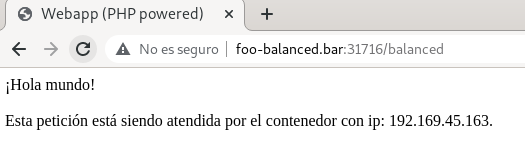
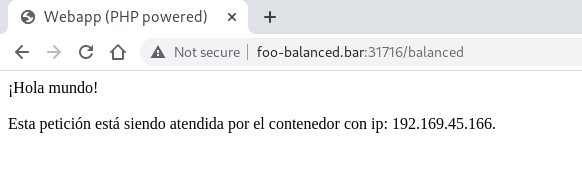
kubernetes

diff --git a/labs-k8s/10-desplegando-aplicación-balanceada.md b/labs-k8s/10-desplegando-aplicación-balanceada.md
@@ -193,14 +193,16 @@ data:
   ssl-redirect: "OFF"
 ```
 
+> ![INFORMATION](information-icon.png) [Kubernetes Service](https://kubernetes.io/docs/concepts/services-networking/service/)
+
 ## Probando la aplicación balanceada
 
 Listamos los pods:
 
 ```console
 [kubeadmin@kubemaster webapp-balanced]$ kubectl get pods --namespace webapp-balanced -o wide
-NAME                               READY   STATUS    RESTARTS   AGE   IP               NODE                  NOMINATED NODE   READINESS GATES
-webapp-balanced-6f4f8dcd99-9pdqs   1/1     Running   0          30s   192.169.45.163   kubenode2.jadbp.lab   <none>           <none>
+NAME                               READY   STATUS    RESTARTS   AGE    IP               NODE                  NOMINATED NODE   READINESS GATES
+webapp-balanced-6f4f8dcd99-p2vd7   1/1     Running   0          117s   192.169.45.166   kubenode2.jadbp.lab   <none>           <none>
 [kubeadmin@kubemaster webapp-balanced]$
 ```
 
@@ -223,12 +225,12 @@ Si recargamos la página podremos ver que la ip no cambia. Tenemos un único pod
 Escalamos el deployment para tener dos pods:
 
 ```console
-[kubeadmin@kubemaster labs-k8s]$ kubectl scale --replicas=2 deployment/webapp-balanced --namespace=webapp-balanced
+[kubeadmin@kubemaster webapp-balanced]$ kubectl scale --replicas=2 deployment/webapp-balanced --namespace=webapp-balanced
 deployment.apps/webapp-balanced scaled
 [kubeadmin@kubemaster webapp-balanced]$ kubectl get pods --namespace webapp-balanced -o wide
 NAME                               READY   STATUS    RESTARTS   AGE     IP               NODE                  NOMINATED NODE   READINESS GATES
-webapp-balanced-6f4f8dcd99-9pdqs   1/1     Running   0          2m31s   192.169.45.163   kubenode2.jadbp.lab   <none>           <none>
-webapp-balanced-6f4f8dcd99-zfspg   1/1     Running   0          25s     192.169.62.38    kubenode1.jadbp.lab   <none>           <none>
+webapp-balanced-6f4f8dcd99-b4qpj   1/1     Running   0          20s     192.169.62.43    kubenode1.jadbp.lab   <none>           <none>
+webapp-balanced-6f4f8dcd99-p2vd7   1/1     Running   0          8m16s   192.169.45.166   kubenode2.jadbp.lab   <none>           <none>
 [kubeadmin@kubemaster webapp-balanced]$
 ```
 
@@ -240,7 +242,7 @@ Podemos ir recargando y veremos que cada vez que recargamos se muestra una ip di
 
 ## Escalando la aplicación
 
-Escalamos la apliación para tener tres pods:
+Escalamos la aplicación para tener tres pods:
 
 ```console
 [kubeadmin@kubemaster devopslabs]$ kubectl scale --replicas=3 deployment/webapp-balanced --namespace=webapp-balanced
@@ -264,7 +266,7 @@ kubenode2.jadbp.lab    Ready    <none>                 9d    v1.21.1
 [kubeadmin@kubemaster devopslabs]$ 
 ```
 
-Podemos ver los eventos del namespace en el que venos que no se cumplen las reglas de antiafinidad del deployment:
+Podemos ver los eventos del namespace en el que vemos que no se cumplen las reglas de antiafinidad del deployment:
 
 ```console
 [kubeadmin@kubemaster devopslabs]$ kubectl get events --namespace webapp-balanced
@@ -288,24 +290,28 @@ LAST SEEN   TYPE      REASON              OBJECT                                
 [kubeadmin@kubemaster devopslabs]$ 
 ```
 
-```console
-[kubeadmin@kubemaster webapp-balanced]$  kubectl scale --replicas=2 deployment/webapp-balanced --namespace=webapp-balanced
-deployment.apps/webapp-balanced scaled
-[kubeadmin@kubemaster webapp-balanced]$ kubectl get pods --namespace webapp-balanced -o wide
-NAME                               READY   STATUS    RESTARTS   AGE     IP               NODE                  NOMINATED NODE   READINESS GATES
-webapp-balanced-6f4f8dcd99-9pdqs   1/1     Running   0          6m54s   192.169.45.163   kubenode2.jadbp.lab   <none>           <none>
-webapp-balanced-6f4f8dcd99-zfspg   1/1     Running   0          4m48s   192.169.62.38    kubenode1.jadbp.lab   <none>           <none>
-[kubeadmin@kubemaster webapp-balanced]$ 
-```
+##
 
 ```console
-[kubeadmin@kubemaster devopslabs]$ kubectl edit deployment webapp-balanced --namespace webapp-balanced
-deployment.apps/webapp-balanced edited
-[kubeadmin@kubemaster devopslabs]$ 
-```
-
-```console
-
+[kubeadmin@kubemaster webapp-balanced]$ kubectl describe svc balanced-service --namespace webapp-balanced
+Name:                     balanced-service
+Namespace:                webapp-balanced
+Labels:                   <none>
+Annotations:              <none>
+Selector:                 app=webapp-balanced
+Type:                     LoadBalancer
+IP Family Policy:         SingleStack
+IP Families:              IPv4
+IP:                       10.107.139.65
+IPs:                      10.107.139.65
+Port:                     http  80/TCP
+TargetPort:               80/TCP
+NodePort:                 http  31707/TCP
+Endpoints:                192.169.45.166:80,192.169.62.43:80
+Session Affinity:         None
+External Traffic Policy:  Cluster
+Events:                   <none>
+[kubeadmin@kubemaster webapp-balanced]$
 ```
 
 ## Ejercicio
